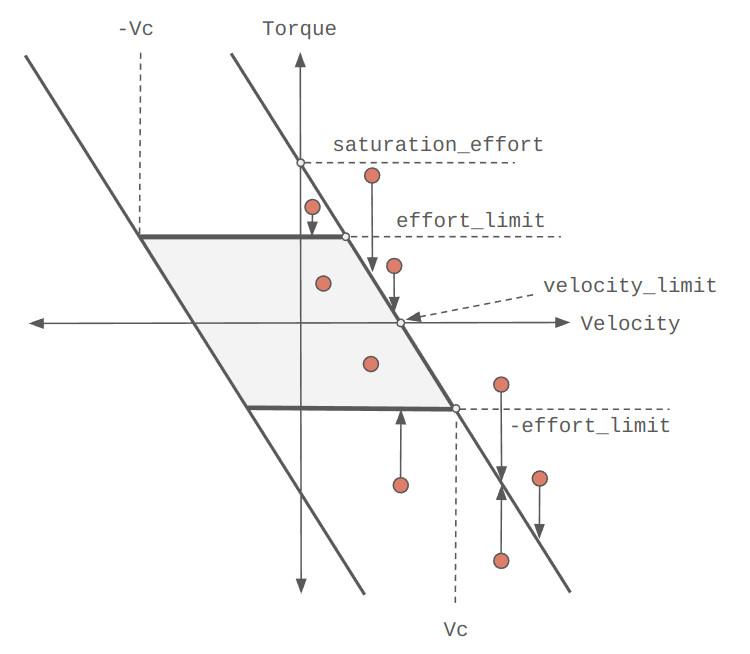
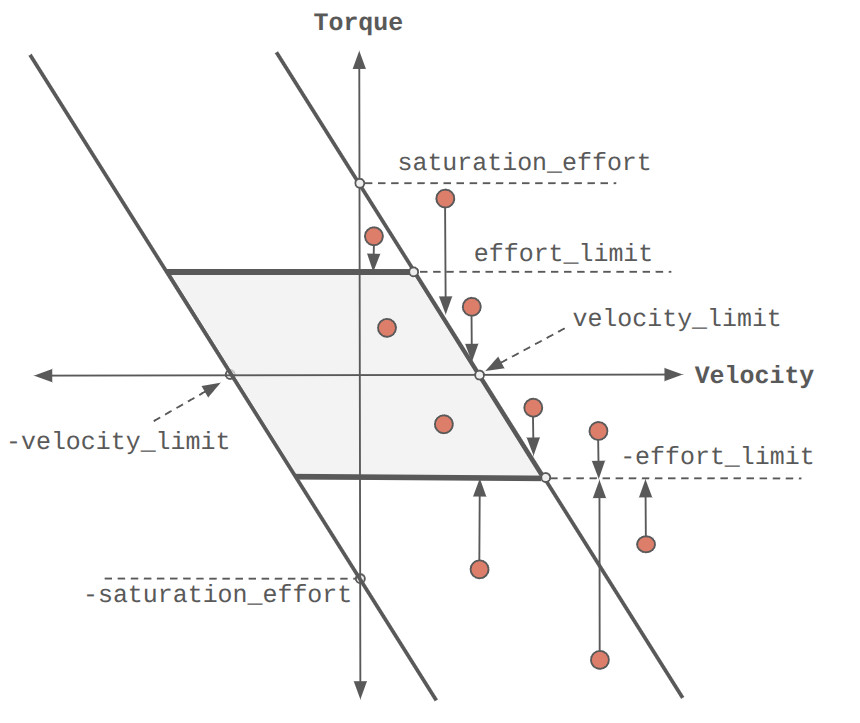
remove clipping past the effort limit

diff --git a/source/isaaclab/isaaclab/actuators/actuator_pd.py b/source/isaaclab/isaaclab/actuators/actuator_pd.py
@@ -216,13 +216,10 @@ class DCMotor(IdealPDActuator):
     * Continuous torque (:math:`\tau_{motor, con}`): The maximum torque that can be outputted for a short period. This
       is often enforced on the current drives for a DC motor to limit overheating, prevent mechanical damage, or
       enforced by electrical limitations.(:attr:`effort_limit`).
-    * Corner velocity (:math:`V_{c}`): The velocity where the torque-speed curve intersects with continuous torque.
 
-    Based on these parameters, the instantaneous minimum and maximum torques for velocities between corner velocities
-    (where torque-speed curve intersects with continuous torque) are defined as follows:
+    Based on these parameters, the instantaneous minimum and maximum torques for velocities are defined as follows:
 
     .. math::
-
 
         \tau_{j, max}(\dot{q}) & = clip \left (\tau_{j, stall} \times \left(1 -
             \frac{\dot{q}}{\dot{q}_{j, max}}\right), -∞, \tau_{j, con} \right) \\
@@ -242,17 +239,6 @@ class DCMotor(IdealPDActuator):
 
         \tau_{j, applied} = clip(\tau_{computed}, \tau_{j, min}(\dot{q}), \tau_{j, max}(\dot{q}))
 
-    If the velocity of the joint is outside corner velocities (this would be due to external forces) the
-    applied output torque will be driven to the torque speed curve providing braking torque that will try to drive the
-    motor down to the corner velocities
-
-    .. math::
-
-        if \quad & \dot{q}>V_{c} \quad & then \quad & \tau_{j, applied} = \tau_{j, stall} \times \left(1 -
-            \frac{\dot{q}}{\dot{q}_{j, max}}\right) \\
-        if \quad & \dot{q}<-V_{c} \quad & then \quad & \tau_{j, applied} = \tau_{j, stall} \times \left(-1 -
-            \frac{\dot{q}}{\dot{q}_{j, max}}\right)
-
     The figure below demonstrates the clipping action for example (velocity, torque) pairs.
     """
 
@@ -265,8 +251,6 @@ class DCMotor(IdealPDActuator):
         if self.cfg.saturation_effort is None:
             raise ValueError("The saturation_effort must be provided for the DC motor actuator model.")
         self._saturation_effort = self.cfg.saturation_effort
-        # find the velocity on the torque-speed curve that intersects effort_limit in the second and fourth quadrant
-        self._vel_at_effort_lim = self.velocity_limit * (1 + self.effort_limit / self._saturation_effort)
         # prepare joint vel buffer for max effort computation
         self._joint_vel = torch.zeros_like(self.computed_effort)
         # create buffer for zeros effort
@@ -299,13 +283,8 @@ class DCMotor(IdealPDActuator):
         max_effort = torch.clip(torque_speed_top, max=self.effort_limit)
         # -- min limit
         min_effort = torch.clip(torque_speed_bottom, min=-self.effort_limit)
-
         # clip the torques based on the motor limits
         clamped = torch.clip(effort, min=min_effort, max=max_effort)
-        gt_vel_at_effort_lim = self._joint_vel > self._vel_at_effort_lim
-        lt_vel_at_neg_effort_lim = self._joint_vel < -self._vel_at_effort_lim
-        clamped[gt_vel_at_effort_lim] = torque_speed_top[gt_vel_at_effort_lim]
-        clamped[lt_vel_at_neg_effort_lim] = torque_speed_bottom[lt_vel_at_neg_effort_lim]
 
         return clamped
 

diff --git a/source/isaaclab/test/actuators/test_dc_motor.py b/source/isaaclab/test/actuators/test_dc_motor.py
@@ -76,9 +76,9 @@ def test_dc_motor_clip(num_envs, num_joints, device, test_point):
     3 - less than effort limit but outside torque speed curve (quadrant 1)
     4 - less than effort limit but outside torque speed curve and outside corner velocity(quadrant 4)
     5 - fully inside torque speed curve and effort limit (quadrant 4)
-    6 - fully outside torque speed curve and -effort limit (quadrant 4)
+
     7 - fully inside torque speed curve, outside -effort limit, and inside corner velocity (quadrant 4)
-    8 - fully inside torque speed curves, outside -effort limit, and outside corner velocity (quadrant 4)
+
     9 - less than effort limit but outside torque speed curve and inside corner velocity (quadrant 4)
     e - effort_limit
     s - saturation_effort
@@ -136,26 +136,26 @@ def test_dc_motor_clip(num_envs, num_joints, device, test_point):
         (10.0, -70.0),  # -9
     ]
     expected_clipped_effort = [
-        30.0,
-        60.0,
-        20.0,
-        20.0,
-        -80.0,
-        -30.0,
-        -120.0,
-        -60.0,
-        -80.0,
-        -40.0,
-        -30.0,
-        -60.0,
-        -20,
-        -20,
-        80.0,
-        30.0,
-        120.0,
-        60.0,
-        80.0,
-        40.0,
+        30.0,  # 0
+        60.0,  # 1
+        20.0,  # 2
+        20.0,  # 3
+        -50.0,  # 4
+        -30.0,  # 5
+        -60.0,  # 6
+        -60.0,  # 7
+        -60.0,  # 8
+        -40.0,  # 9
+        -30.0,  # -0
+        -60.0,  # -1
+        -20,  # -2
+        -20,  # -3
+        60.0,  # -4
+        30.0,  # -5
+        60.0,  # -6
+        60.0,  # -7
+        60.0,  # -8
+        40.0,  # -9
     ]
 
     joint_names = [f"joint_{d}" for d in range(num_joints)]

diff --git a/source/isaaclab/isaaclab/actuators/actuator_net.py b/source/isaaclab/isaaclab/actuators/actuator_net.py
@@ -79,8 +79,6 @@ class ActuatorNetLSTM(DCMotor):
         # compute network inputs
         self.sea_input[:, 0, 0] = (control_action.joint_positions - joint_pos).flatten()
         self.sea_input[:, 0, 1] = joint_vel.flatten()
-        # save current joint vel for dc-motor clipping
-        self._joint_vel[:] = torch.clip(joint_vel, min=-self.velocity_limit, max=self.velocity_limit)
 
         # run network inference
         with torch.inference_mode():
